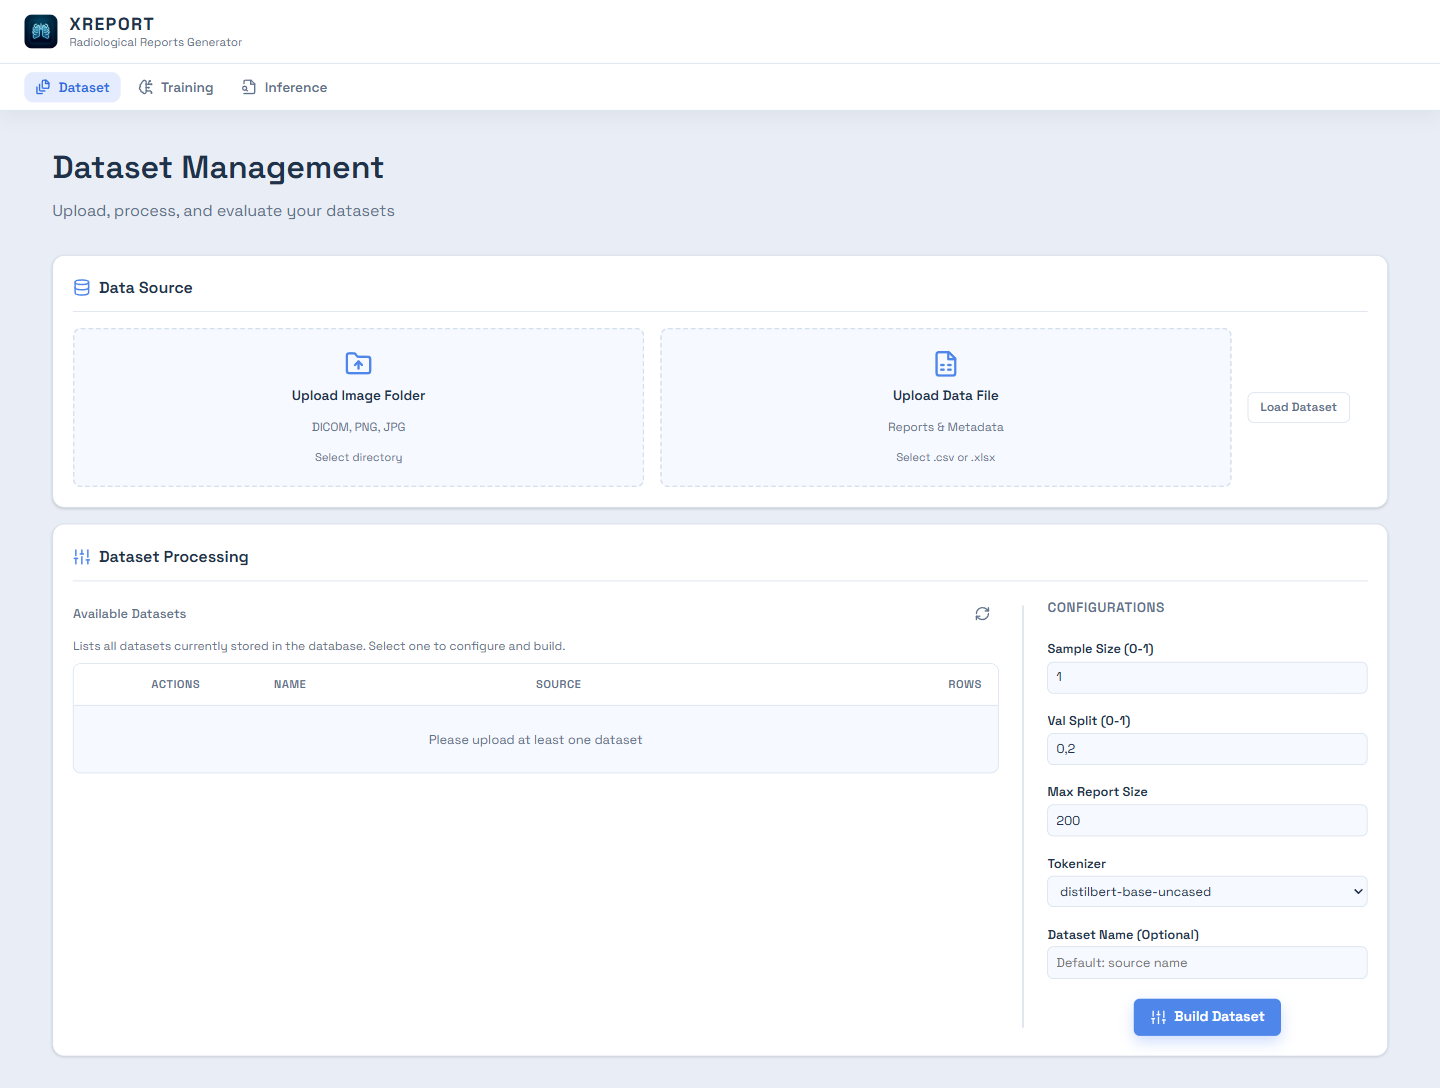
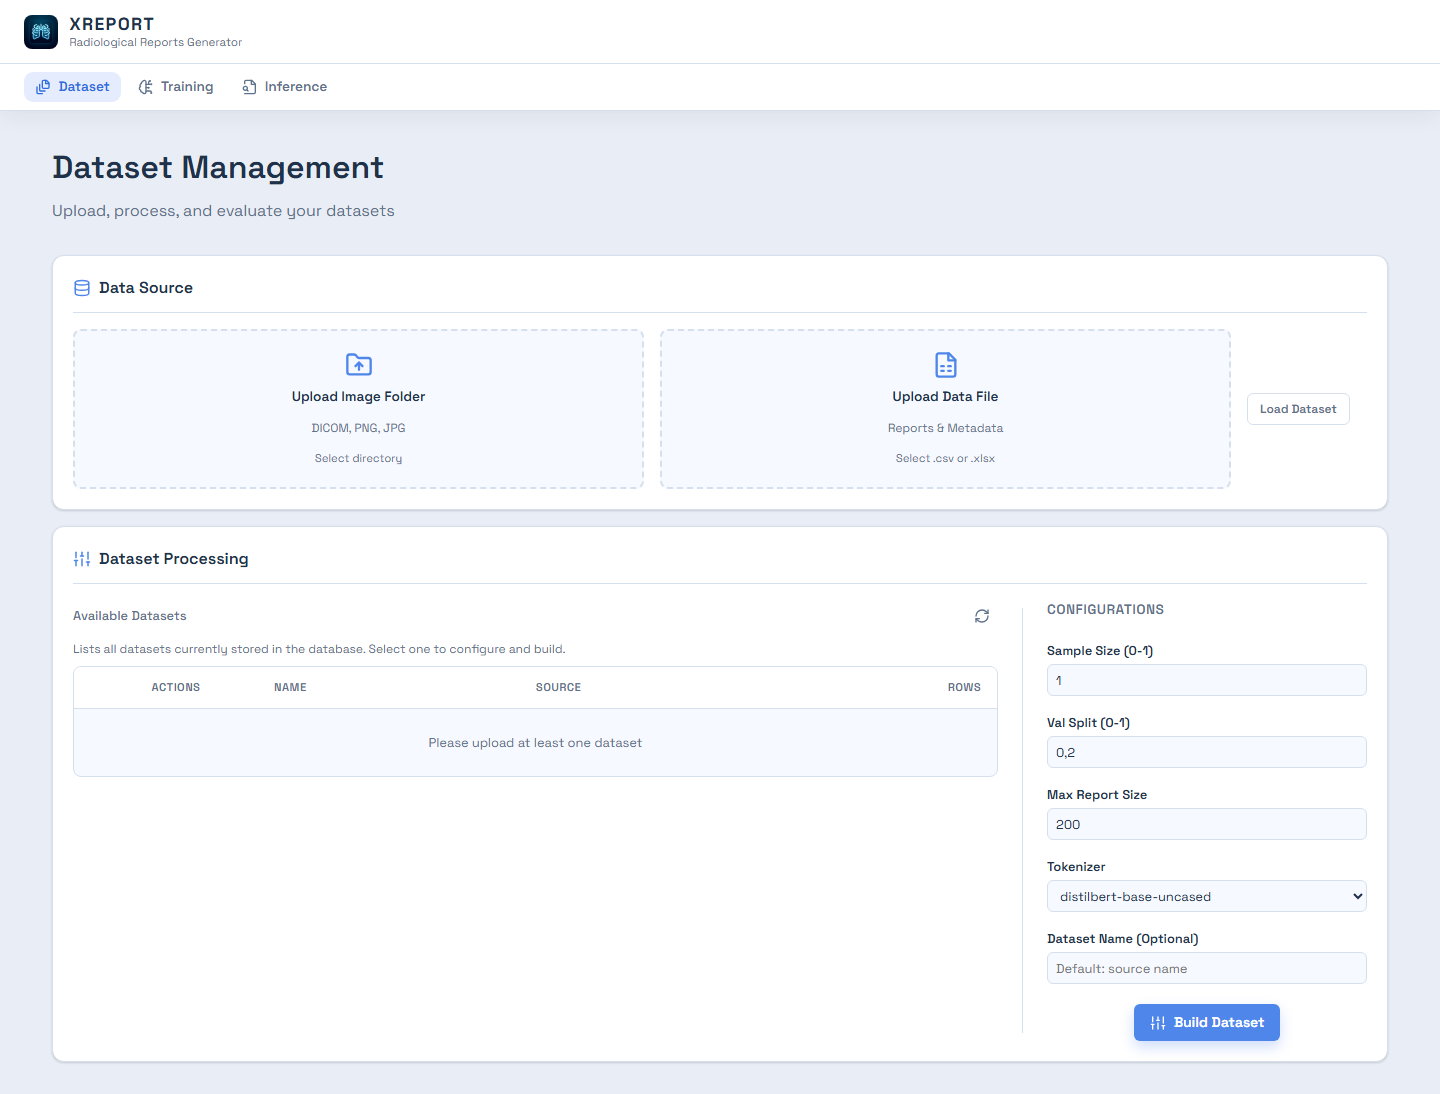
docs: refresh README snapshots for v2.4.0

diff --git a/README.md b/README.md
@@ -99,6 +99,8 @@ npm run preview -- --host 127.0.0.1 --port 8003
 
 ### 4.3 UI Snapshots
 
+The snapshots below were captured from the current Windows desktop build at 1440×920.
+
 - **Dataset management**: data source selection and dataset processing configuration.
   ![Dataset management page](assets/figures/readme-dataset.png)
 - **Training workspace**: training session setup, checkpoint actions, and training dashboard.